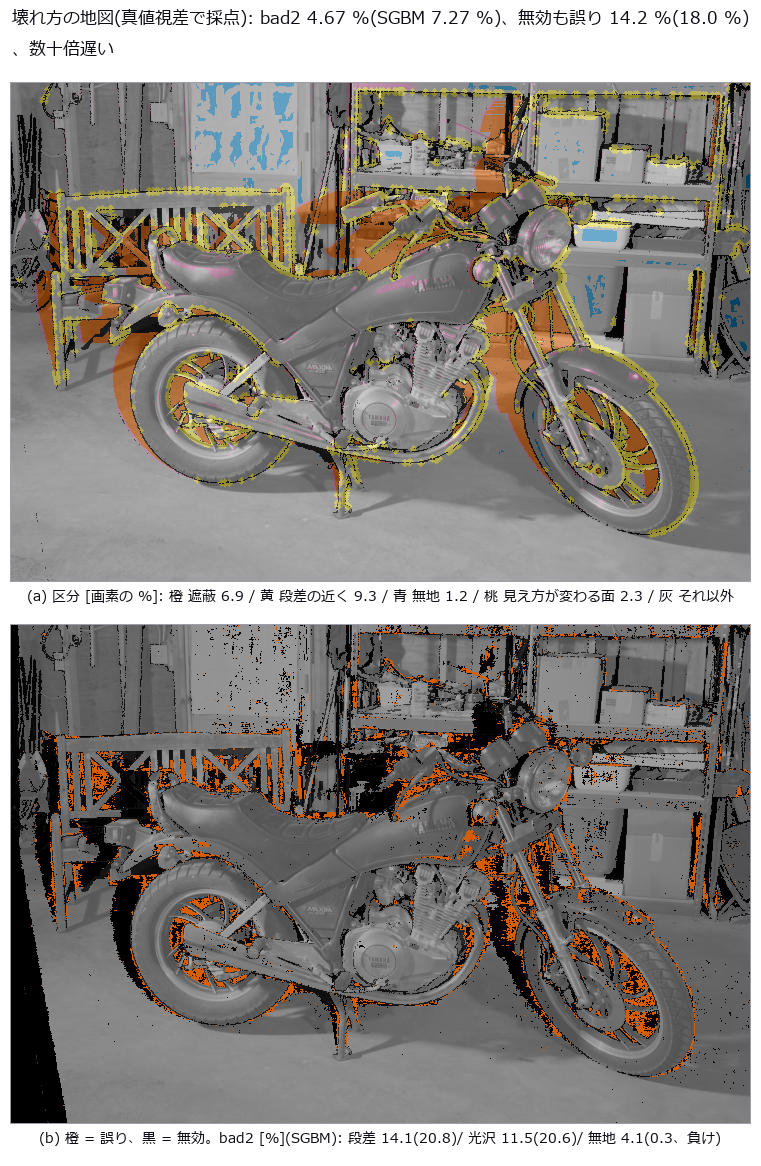
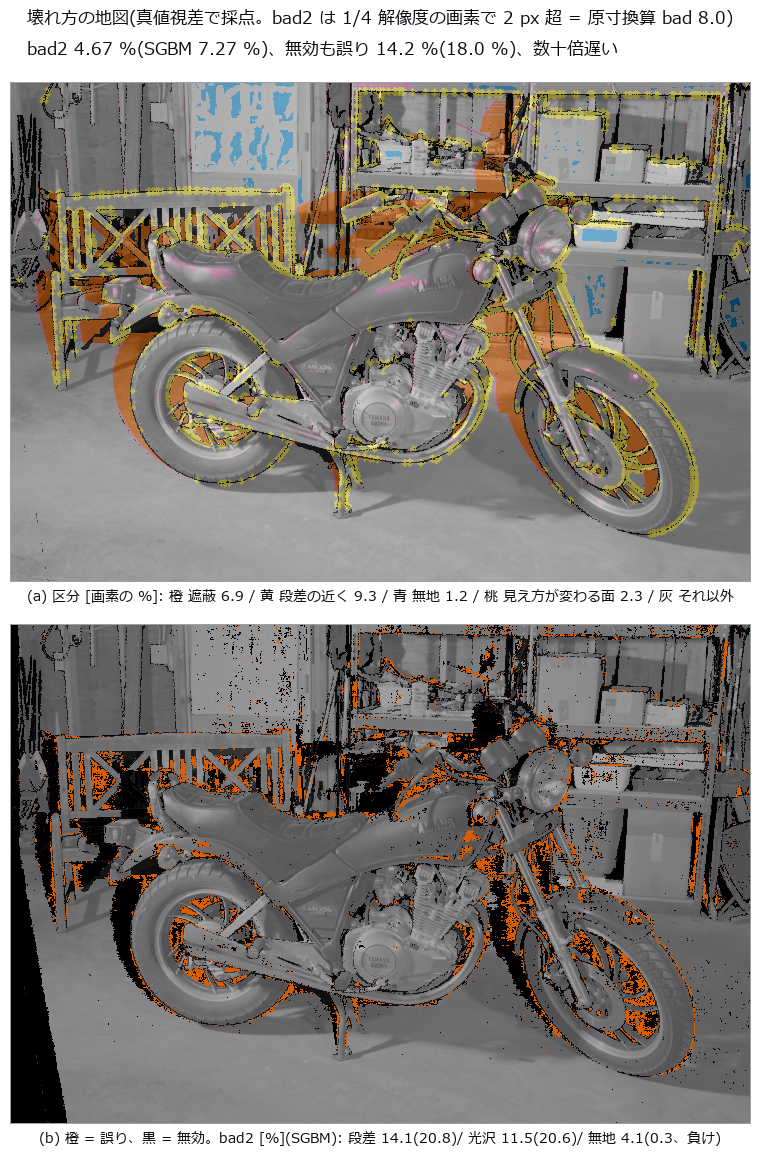
PoC 実写ステレオ: bad-2 が 1/4 解像度の画素で数えた値(原寸換算 bad 8.0)である事を出力と説明に書く
独立の敵対的レビュー(2026-11-13)の指摘を再現した: BAD_THR = 2.0 は 1/4 解像度の画素で、
Middlebury の公式の表(原寸で数える)の bad 2.0 とは別の、4 倍緩い閾値。

- 定数 RES_SCALE と注の文 BAD_NOTE を足し、1 章・7 章・所見の印字、図の題、図と表の説明に
  「1/4 解像度の画素で 2 px 超 = 原寸の 8 px、原寸換算の呼び方なら bad 8.0」を出す。
- 題を長くした分、代表図の題が語の途中で折れたので注の後で改行し、MiddEval3 の表の題は
  図の幅を 55 px はみ出して書けなかった(full の実走で検出)ので短くした。
- 説明(poc_captions.json)の和文・英文と図の説明に同じ注を足した。数字は変わらない
  (full・縮小とも bad2 4.67 % / SGBM 7.27 %、MiddEval3 中央 6.52 % 対 10.20 %)。

Claude-Session: https://claude.ai/code/session_01AwZFxqx3fbByJvEbUzzbSt

Changed region(s): [[0.0, 0.0, 0.9671, 0.0617]]

diff --git a/examples/poc_real_stereo_multiscanline.py b/examples/poc_real_stereo_multiscanline.py
@@ -30,6 +30,10 @@
 
 1. 視差の採点: 有効画素の bad-2・平均誤差・密度。無効を誤りに数えた bad-2 も並べる(密度と正しさは
    別の数字)。OpenCV の SGBM と同じ画素で比べる。
+   ★この PoC の bad-2(印字・表・図では bad2)は、**1/4 解像度の画素で 2 px**(:data:`BAD_THR`)を超える割合。
+   原寸の画素では 8 px に当たる。Middlebury の公式の採点は常に原寸で数える(配布元の提出案内: "the
+   'official' evaluation is always at full resolution")ので、**公式の表の bad 2.0 とは別の、4 倍緩い閾値**
+   —— 原寸換算の呼び方なら「bad 8.0」。公式の表の数字と直接は比べられない(2026-11-13、作者と独立の検証の指摘)。
 2. 失敗する場所の地図: 真値から遮蔽(右のカメラから見えない画素)を幾何で数え、無地(7x7 の
    局所標準偏差が小さい)と見え方が変わる面(真値の対応で左右の明るさが食い違う = 反射・光沢の代理)
    に分け、区分ごとの bad-2 と無効の割合を出す。遮蔽の数え方は、MiddEval3 があれば配布元の遮蔽の印
@@ -42,7 +46,7 @@
    ``find_ncc_models``。同じ数のでたらめな画素で同じことをした対照群と比べる。
 7. 訓練 15 場面の表(MiddEval3 が手元にあれば測り直し、無ければ記録値)。
 
-所見(2026-11-08 の実測):
+所見(2026-11-08 の実測。bad-2 はどれも 1/4 解像度の画素で 2 px = 原寸換算 bad 8.0):
 
 * motorcycle で有効画素の bad-2 **4.67 %**・平均誤差 0.960 px・密度 90.0 %(OpenCV SGBM 7.27 % /
   1.315 px / 88.4 %)。無効を誤りに数えると 14.23 %(SGBM 18.00 %)。両方が有効な画素だけで比べると
@@ -120,8 +124,14 @@ BASELINE_MM = 193.001
 #: 探索範囲(真の最大視差 59.91 px を含む)と窓。
 MAX_DISP = 64
 WINDOW = 5
-#: bad-N のしきい [px](この分野の慣習)。
+#: bad-N のしきい [px]。★この PoC の画像は 1/4 解像度(:data:`RES_SCALE`)なので、2 px は原寸の 8 px に当たる。
+#: Middlebury の公式の表の bad 2.0(常に原寸で数える)とは別の、4 倍緩い閾値 —— 原寸換算の呼び方なら bad 8.0。
 BAD_THR = 2.0
+#: 原寸に対する縮小率(scikit-image 同梱の motorcycle も MiddEval3 の Q も 1/4)。
+RES_SCALE = 4
+#: 出力の表・図に添える注(bad2 の画素の単位)。
+BAD_NOTE = ("bad2 = 1/4 解像度の画素で %g px 超(原寸の %g px に相当。Middlebury の公式の表の bad 2.0 は原寸で数える"
+            "ので別の閾値 —— 原寸換算の呼び方なら bad %.1f)" % (BAD_THR, BAD_THR * RES_SCALE, BAD_THR * RES_SCALE))
 #: 無地とみなす 7x7 の局所標準偏差(灰色 0..1)。0.02 で切ると床のコンクリートまで入り、そこは
 #: bad2 1 % 前後でよく合う(章 2 の局所標準偏差の段を参照)。本当に崩れるのは最も平らな側だけ。
 FLAT_STD = 0.003
@@ -515,6 +525,7 @@ def section_middeval3(cv2, paths):
 
 
 def print_middeval3(rows, recorded=False):
+    print("   ※ " + BAD_NOTE)
     print("   %-12s %4s %7s %6s %8s %8s | %7s %6s %8s | %6s" % (
         "場面", "探索", "bad2有効", "密度", "bad2全nocc", "bad2全all", "SGBM有効", "密度", "SGBM全", "遮蔽一致"))
     for r in rows:
@@ -553,6 +564,7 @@ def main() -> None:
     t_cv = time.perf_counter() - t
     s_cv = score(Dcv, G)
     print("\n1. 視差(真値のある %d 画素)" % s_ms["n"])
+    print("   ※ " + BAD_NOTE)
     print("   binocular_disparity_ms  bad2 %.2f %%(有効だけ)  平均誤差 %.3f px  密度 %.1f %%  "
           "無効も誤り %.2f %%  (%.1f 秒)" % (s_ms["bad"], s_ms["avg"], s_ms["density"], s_ms["bad_all"], t_ms))
     print("   OpenCV SGBM(参照)    bad2 %.2f %%(有効だけ)  平均誤差 %.3f px  密度 %.1f %%  "
@@ -820,7 +832,7 @@ def main() -> None:
          "reconstruct_surface_stereo を斜めから"],
         title="実写のステレオ対から視差と面", ncols=2,
         caption="bad2 %.2f %%(有効だけ)/ 密度 %.1f %%。OpenCV SGBM は %.2f %% / %.1f %%。"
-                % (s_ms["bad"], s_ms["density"], s_cv["bad"], s_cv["density"]))
+                % (s_ms["bad"], s_ms["density"], s_cv["bad"], s_cv["density"]) + BAD_NOTE + "。")
 
     col = {"遮蔽": (0.85, 0.37, 0.0), "段差の近く": (0.94, 0.89, 0.26), "無地": (0.0, 0.45, 0.70),
            "見え方が変わる面": (0.8, 0.47, 0.65), "それ以外": (0.6, 0.6, 0.6)}
@@ -840,12 +852,14 @@ def main() -> None:
          "橙 = 誤り、黒 = 無効。bad2 [%%](SGBM): 段差 %.1f(%.1f)/ 光沢 %.1f(%.1f)/ 無地 %.1f(%.1f、負け)"
          % (by["段差の近く"][2]["bad"], by["段差の近く"][3]["bad"], by["見え方が変わる面"][2]["bad"],
             by["見え方が変わる面"][3]["bad"], by["無地"][2]["bad"], by["無地"][3]["bad"])],
-        title="壊れ方の地図(真値視差で採点): bad2 %.2f %%(SGBM %.2f %%)、無効も誤り %.1f %%(%.1f %%)、数十倍遅い"
+        title="壊れ方の地図(真値視差で採点。bad2 は 1/4 解像度の画素で 2 px 超 = 原寸換算 bad 8.0)\n"
+              "bad2 %.2f %%(SGBM %.2f %%)、無効も誤り %.1f %%(%.1f %%)、数十倍遅い"
               % (s_ms["bad"], s_cv["bad"], s_ms["bad_all"], s_cv["bad_all"]), ncols=1,
         caption="遮蔽は左右一致で無効に落ち、誤りは段差の近くと見え方が変わる面(光沢)に残る。無地では SGBM に負け、"
                 "両方が有効な画素の平均誤差も SGBM がわずかに小さい(%.3f 対 %.3f px)。処理時間は SGBM の数十倍(機械と負荷で変わる)。 "
                 % (e_ms.mean(), e_cv.mean())
-                + " / ".join("%s bad2 %.1f %% 無効 %.1f %%" % (r[0], r[2]["bad"], 100 - r[2]["density"]) for r in cls_rows))
+                + " / ".join("%s bad2 %.1f %% 無効 %.1f %%" % (r[0], r[2]["bad"], 100 - r[2]["density"]) for r in cls_rows)
+                + "。" + BAD_NOTE + "。")
 
     wr0, wr1, wc0, wc1 = 230, 400, 110, 310
     crop = np.dstack([L] * 3)[wr0:wr1, wc0:wc1]
@@ -879,13 +893,14 @@ def main() -> None:
         "classes", ["区分", "画素 [%]", "ms bad2 [%]", "ms 無効 [%]", "SGBM bad2 [%]", "SGBM 無効 [%]"],
         [[r[0], "%.1f" % r[1], "%.2f" % r[2]["bad"], "%.1f" % (100 - r[2]["density"]), "%.2f" % r[3]["bad"],
           "%.1f" % (100 - r[3]["density"])] for r in cls_rows],
-        title="区分ごとの誤りと無効(motorcycle)", caption="遮蔽は真値から幾何で数えた。")
+        title="区分ごとの誤りと無効(motorcycle、1/4 解像度)", caption="遮蔽は真値から幾何で数えた。" + BAD_NOTE + "。")
     figs.save_table(
         "middeval3", ["場面", "bad2 有効", "密度", "無効も誤り(nocc)", "SGBM bad2", "SGBM 密度"],
         [[r[0], "%.2f" % r[2], "%.1f" % r[3], "%.2f" % r[4], "%.2f" % r[6], "%.1f" % r[7]] for r in mrows],
-        title="MiddEval3 訓練 15 場面(1/4、nocc)", caption="同じ探索範囲・窓・左右一致の OpenCV SGBM と同じ画素で採点。")
+        title="MiddEval3 訓練 15 場面(1/4 解像度・nocc。bad2 の 2 px = 原寸の 8 px)",
+        caption="同じ探索範囲・窓・左右一致の OpenCV SGBM と同じ画素で採点。" + BAD_NOTE + "。")
 
-    print("\n所見")
+    print("\n所見(" + BAD_NOTE + ")")
     print("  * 有効画素の bad2 %.2f %%・密度 %.1f %%(SGBM %.2f %% / %.1f %%)。無効を誤りに数えると %.2f %%。"
           % (s_ms["bad"], s_ms["density"], s_cv["bad"], s_cv["density"], s_ms["bad_all"]))
     print("  * 遮蔽は %.0f %% が無効に落ち、段差の近くと見え方が変わる面は誤りとして残る(bad2 %.1f / %.1f %%)。"
